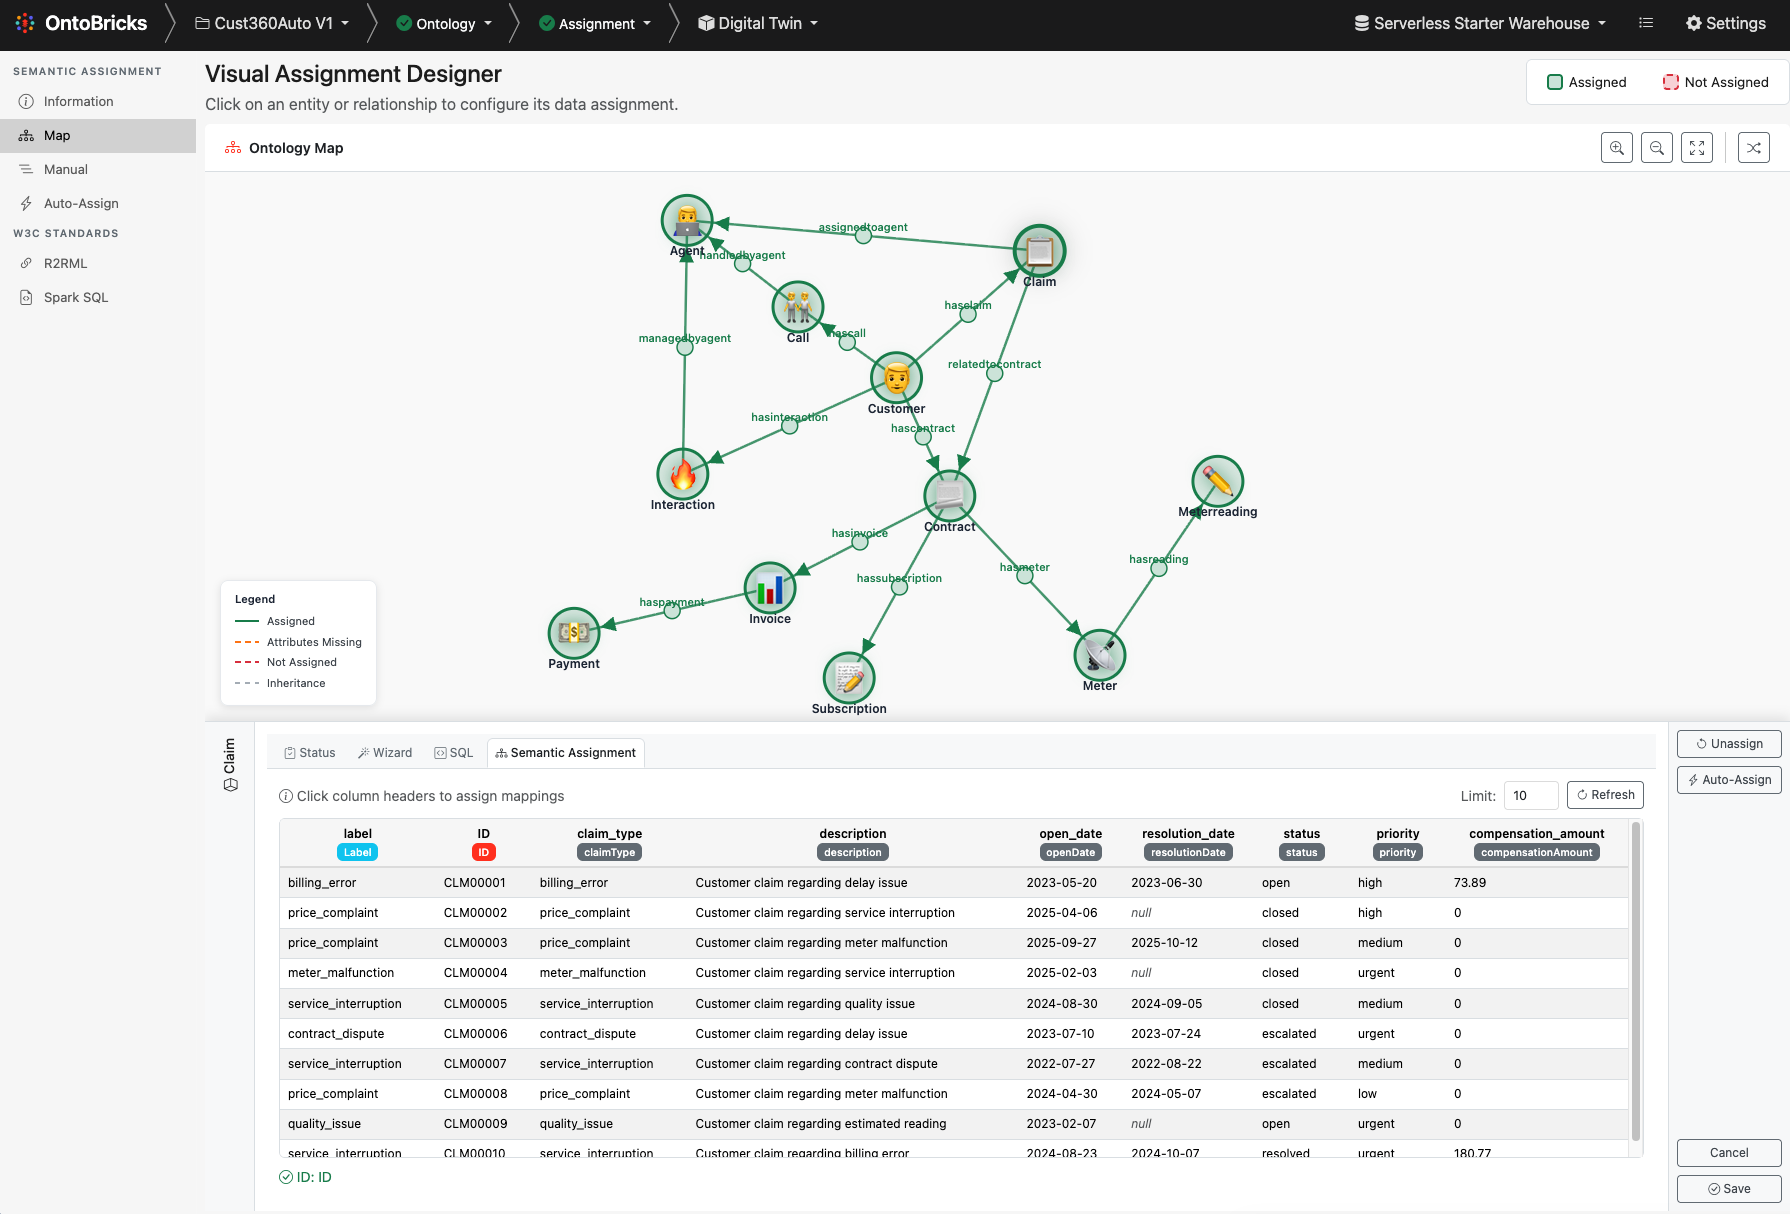
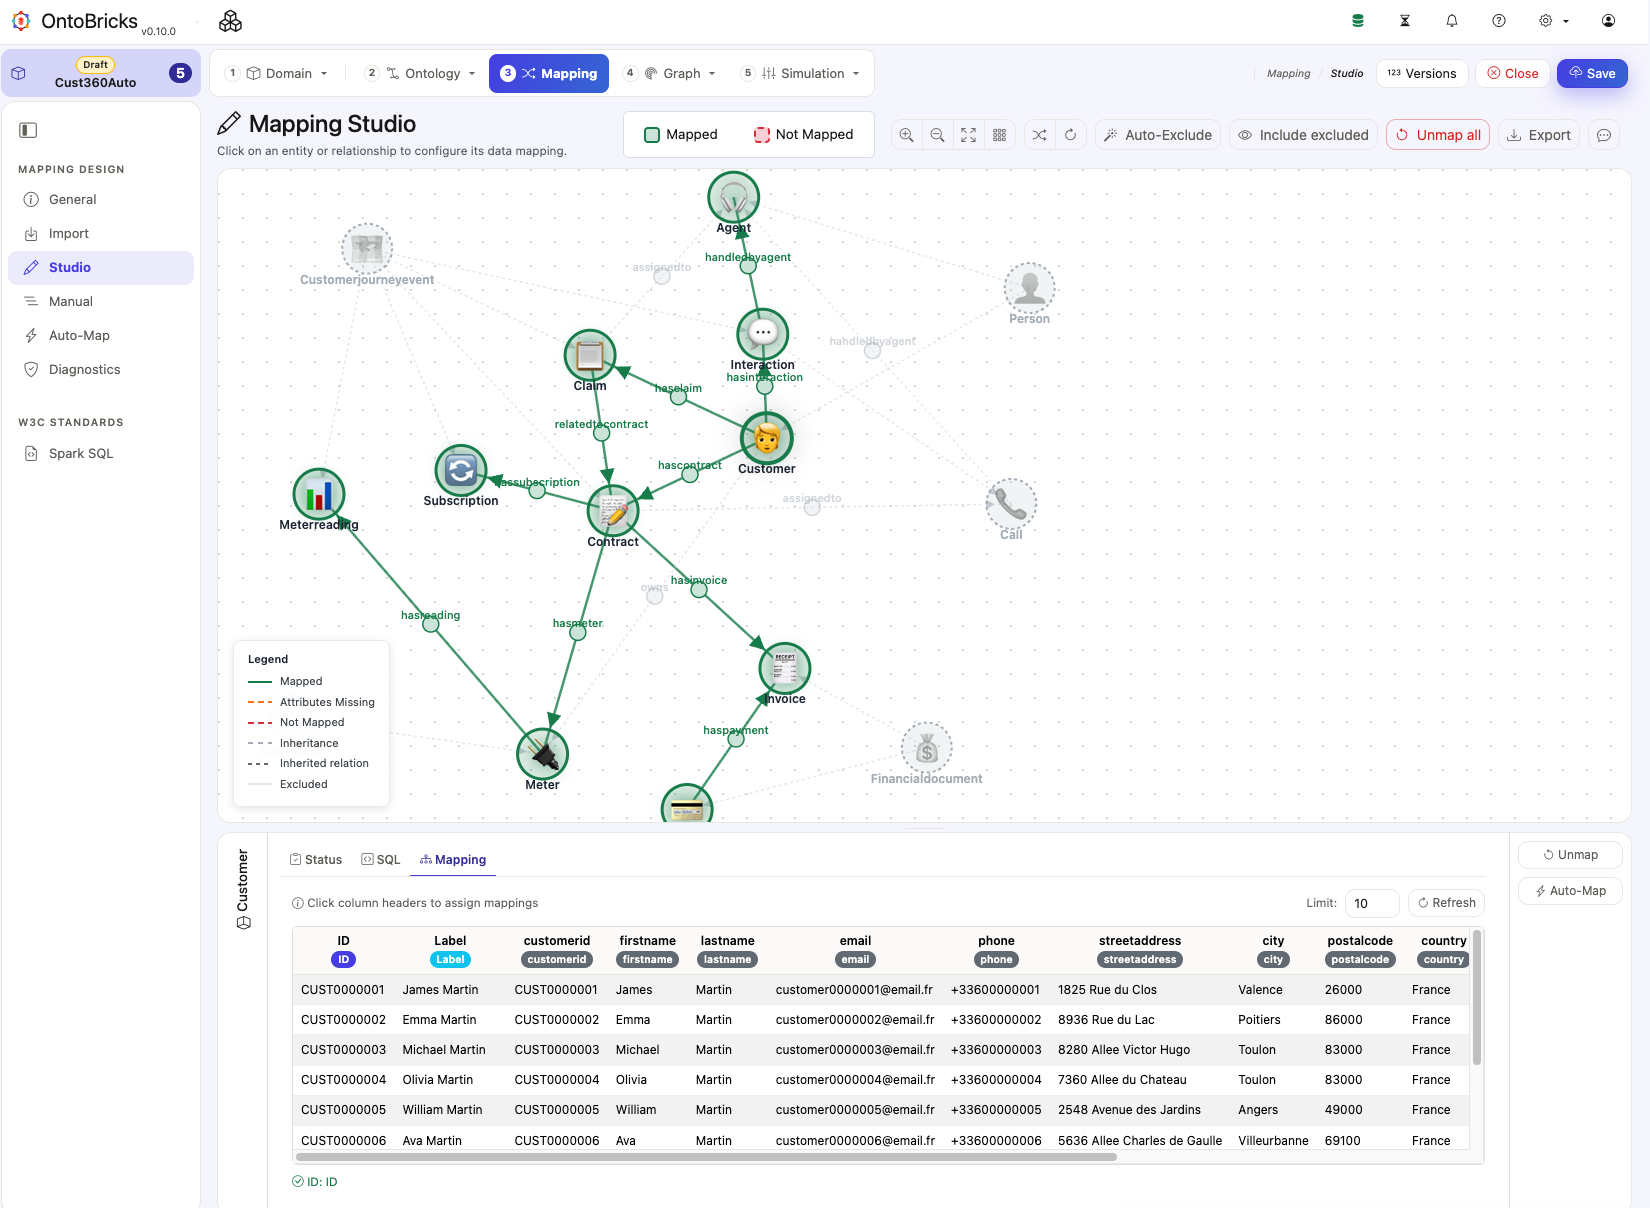
docs(readme): add Ontology Studio screenshot and refresh docs screenshots
- README: show docs/screenshots/Ontology-design.png in the ontology design section
- docs/screenshots: refresh Ontology-design, Ontology-Mapping and Graph-result captures
- changelog: record the README change for v0.10.0

diff --git a/README.md b/README.md
@@ -116,6 +116,10 @@ or import industry standards in one click (FIBO, CDISC, IOF, HL7 FHIR
 R4/R4B/R5) and your own OWL/RDFS. A floating **AI Assistant** edits your
 ontology through natural language.
 
+<p align="center">
+  <img src="docs/screenshots/Ontology-design.png" alt="Ontology Studio: visual ontology design canvas with entities, relationships and the entity editor panel" width="900">
+</p>
+
 **Generate** drives that AI design through a resumable, human-in-the-loop
 wizard — **Detect** candidate entities from metadata and your parsed document
 corpus, **Review** them (include/exclude, edit labels, add your own), then
